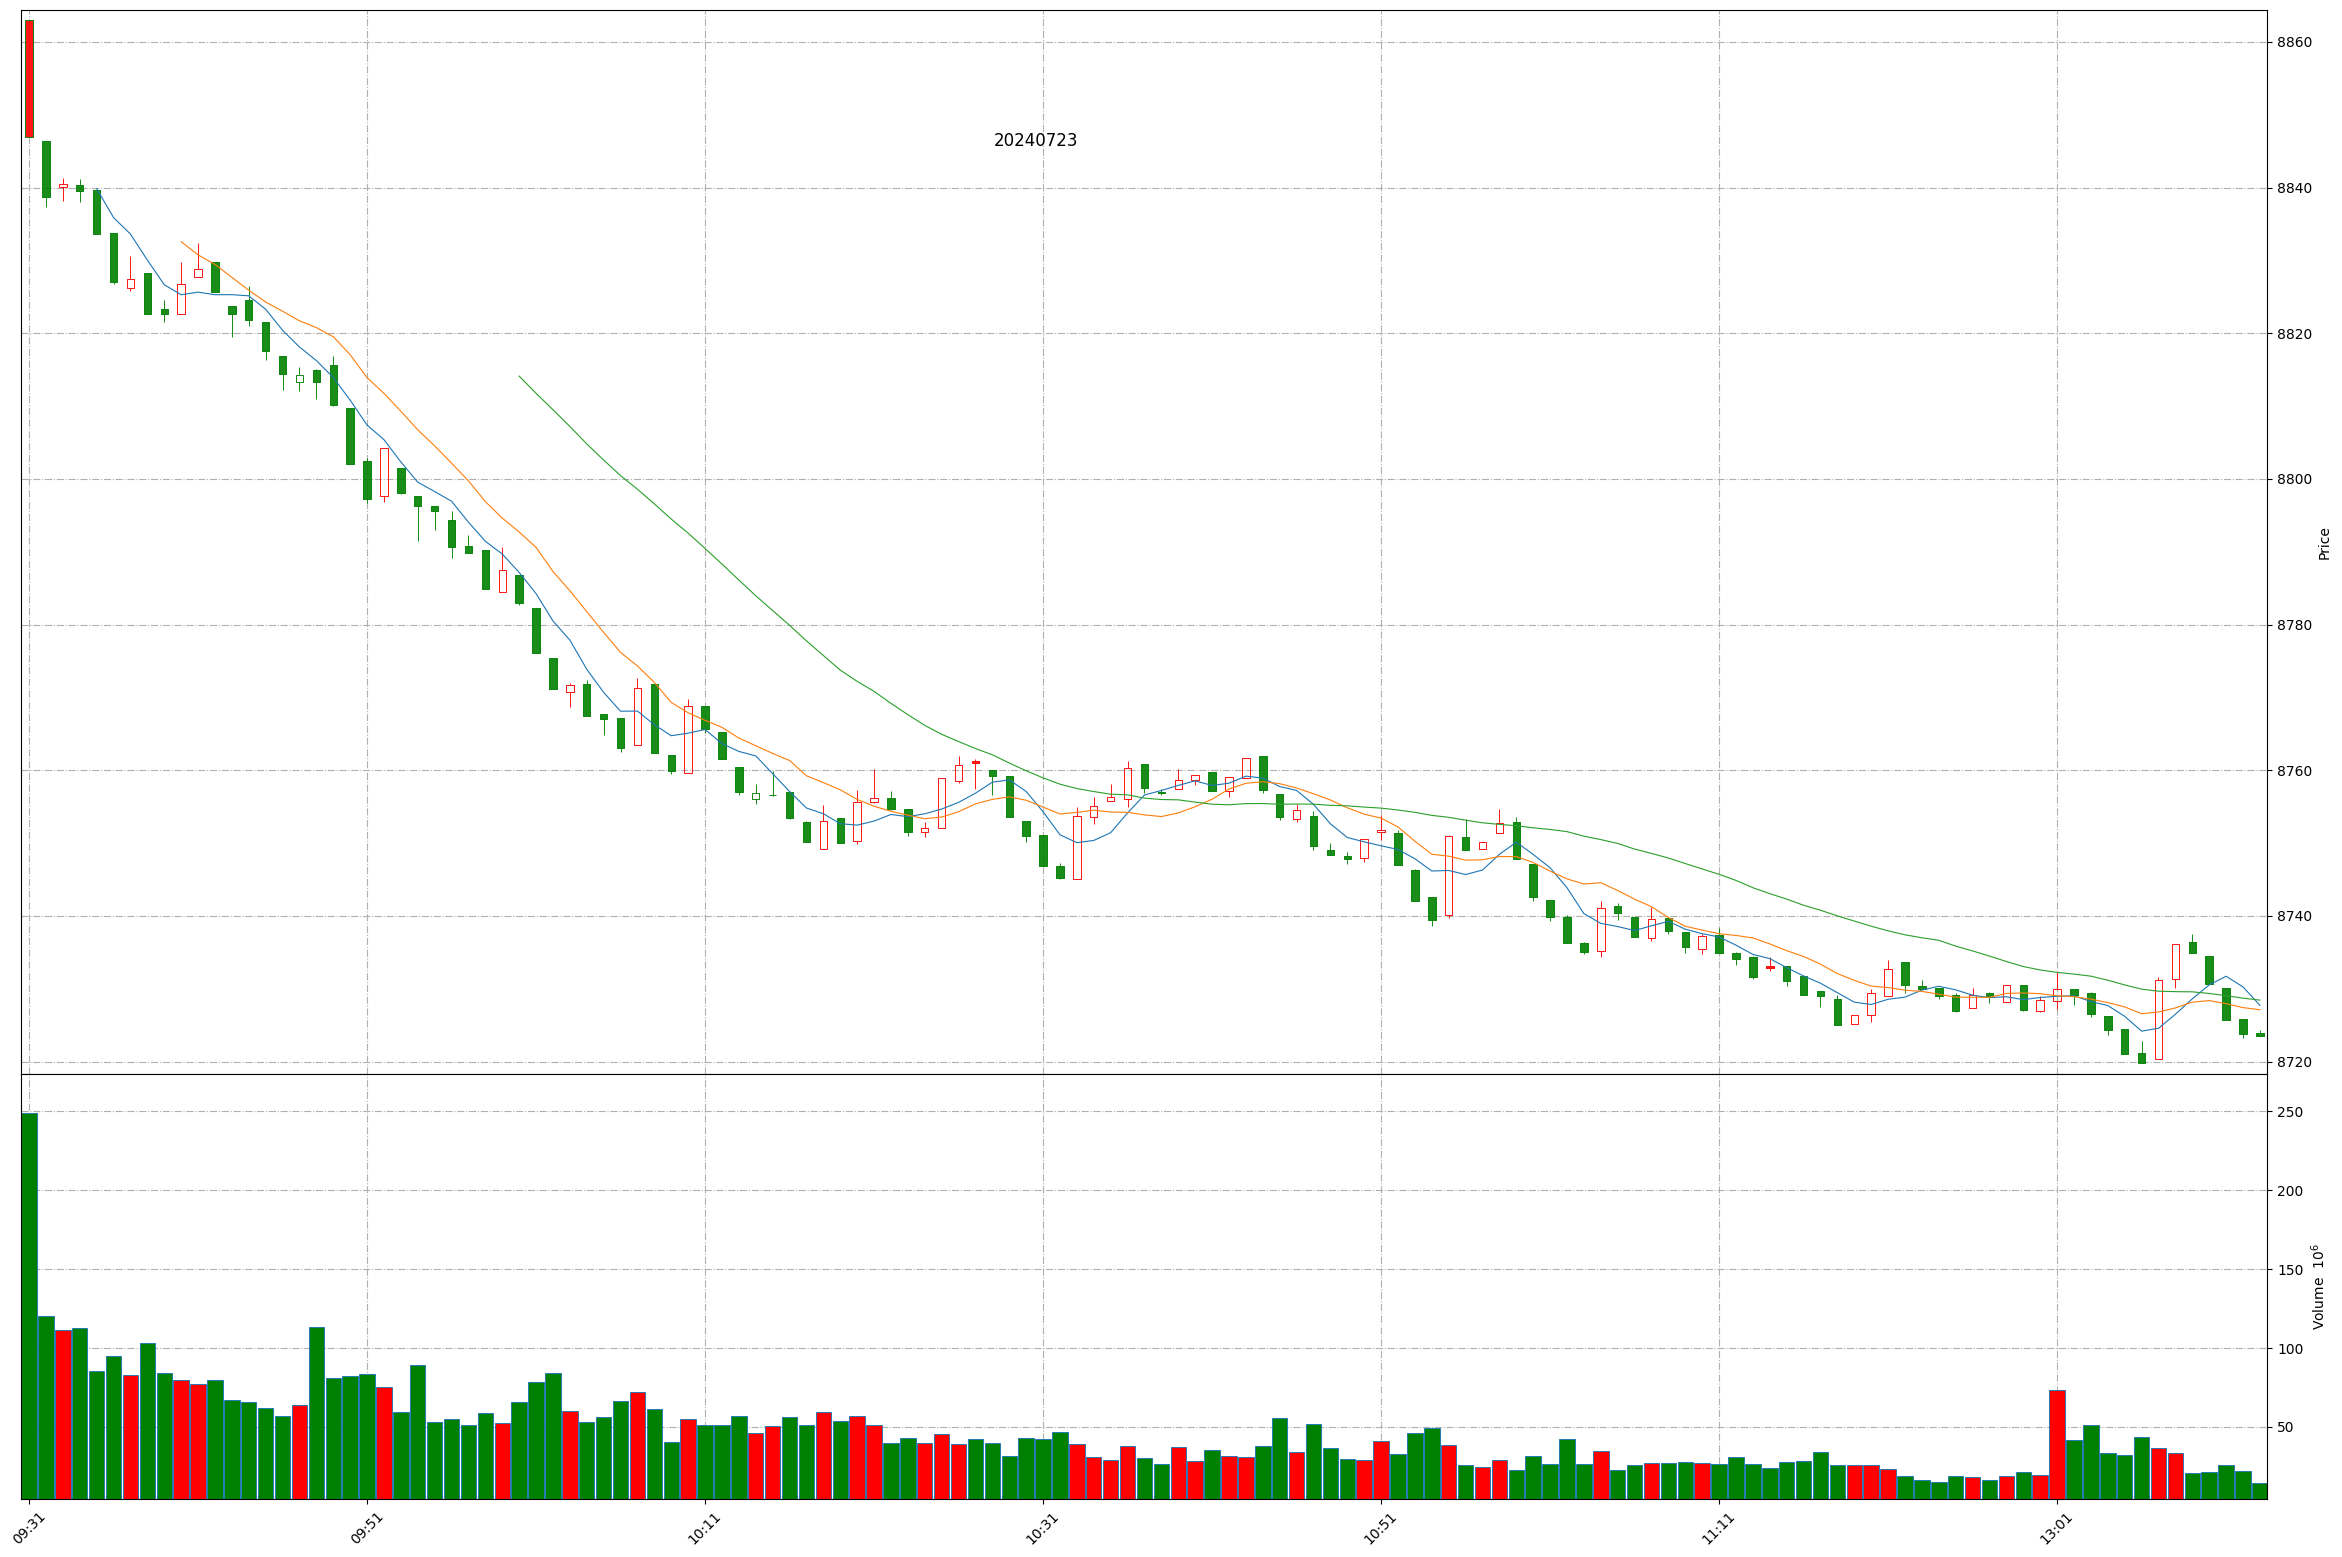
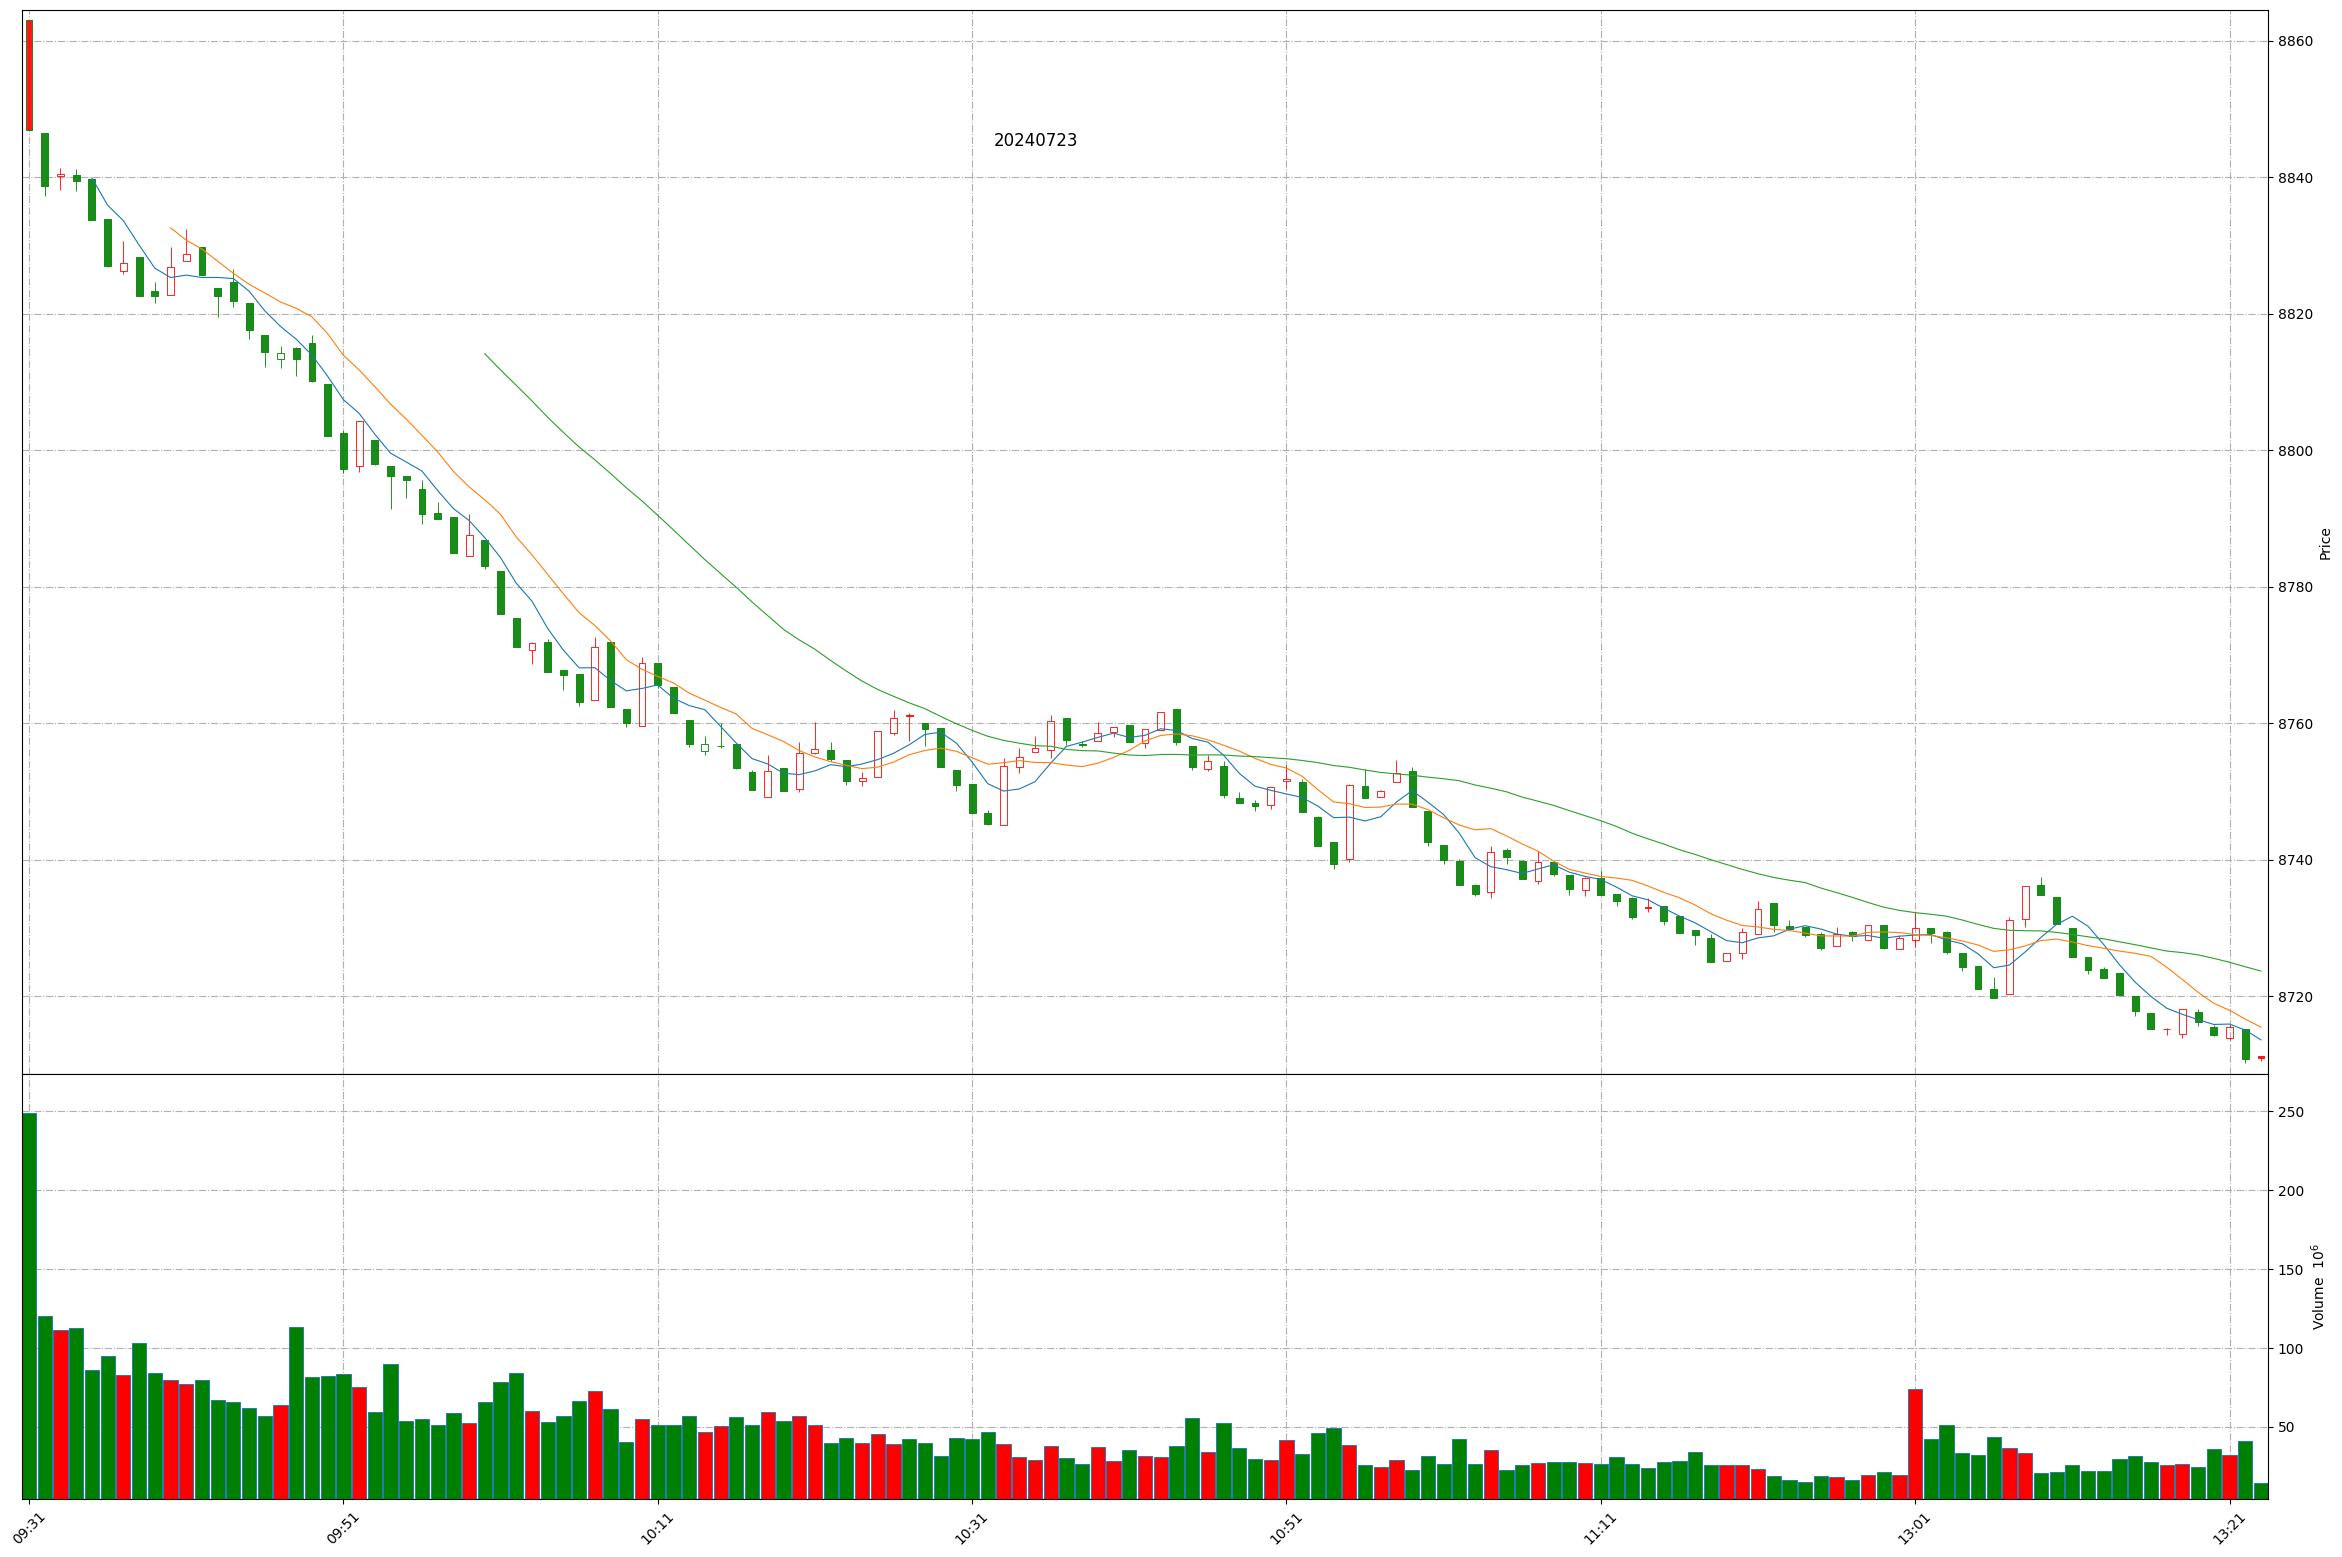
Github action update at 2024-07-23 13:22:38.

diff --git a/README.md b/README.md
@@ -1,11 +1,11 @@
 
 # Daily-A-share-market-quotes 每日 A 股指数（5min 更新）- 20240723
 
-### 上证指数 20240723 13:12
+### 上证指数 20240723 13:22
 ![](./fig/2024/7/20240723-sh000001.png)
 
-### 深证成指 20240723 13:12
+### 深证成指 20240723 13:22
 ![](./fig/2024/7/20240723-sz399001.png)
 
-### 北证50 20240723 13:12
+### 北证50 20240723 13:22
 ![](./fig/2024/7/20240723-bj899050.png)
